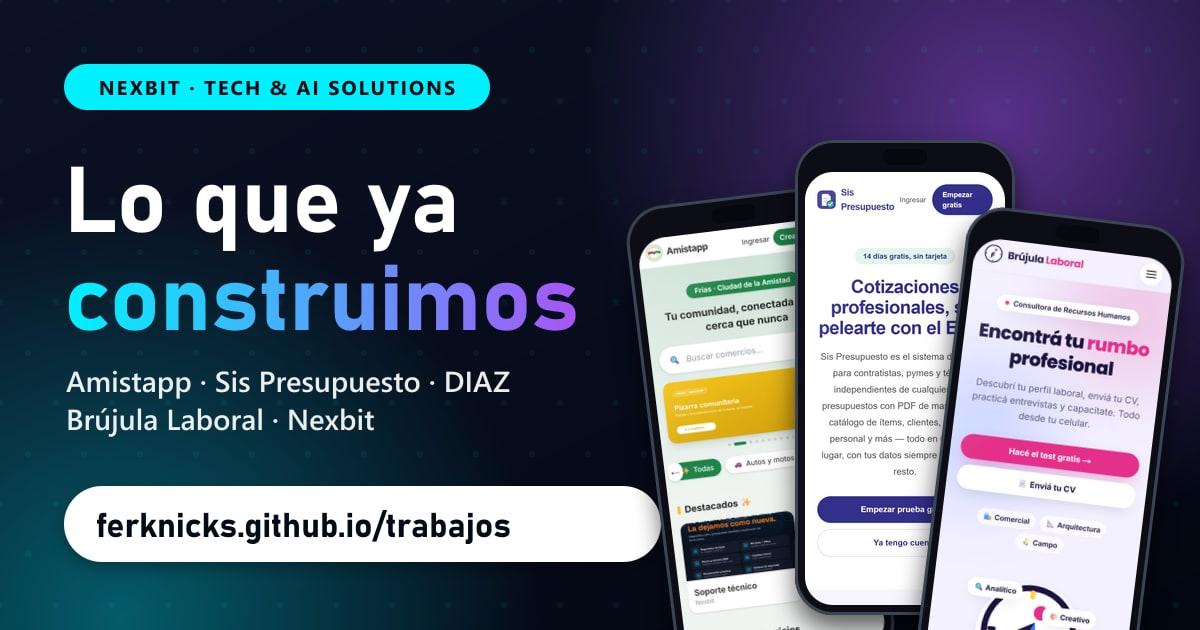
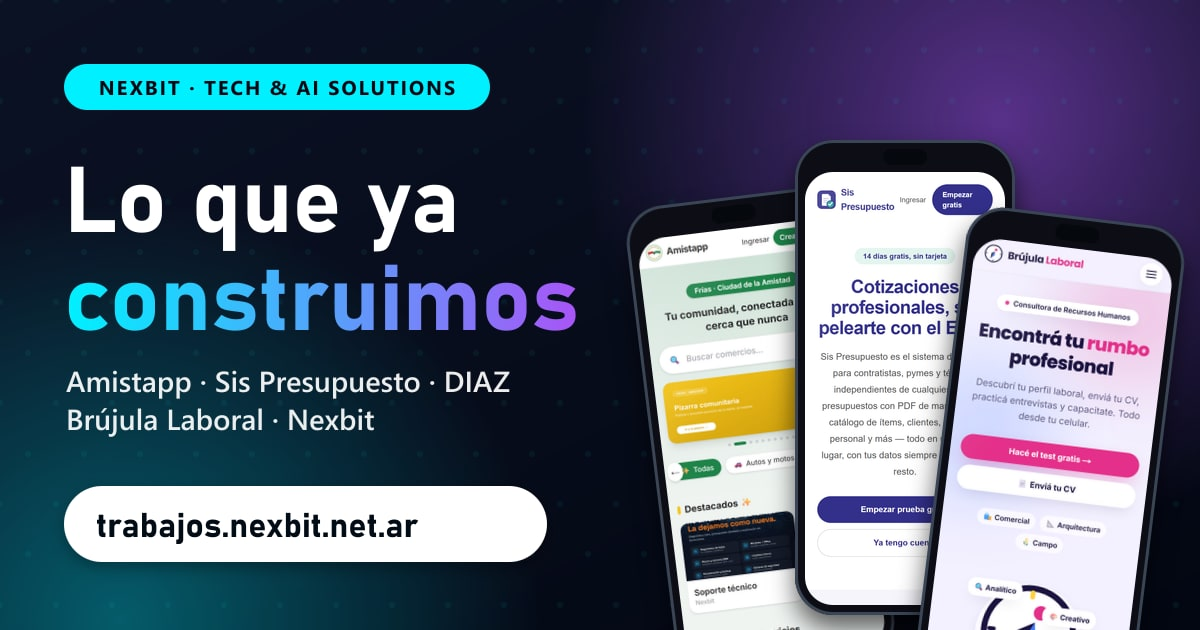
Conecta el dominio trabajos.nexbit.net.ar y actualiza la imagen para compartir

Changed region(s): [[0.0925, 0.754, 0.555, 0.9048]]

diff --git a/index.html b/index.html
@@ -6,22 +6,22 @@
 <title>Nexbit · Trabajos realizados — Amistapp, Sis Presupuesto, DIAZ, Brújula Laboral</title>
 <meta name="description" content="Webs, apps y sistemas a medida con IA y datos: mirá los 5 proyectos que Nexbit ya construyó y entrá a cada sitio.">
 <meta name="theme-color" content="#030712">
-<link rel="canonical" href="https://ferknicks.github.io/trabajos/">
+<link rel="canonical" href="https://trabajos.nexbit.net.ar/">
 <link rel="icon" type="image/svg+xml" href="favicon.svg">
 <meta property="og:type" content="website">
 <meta property="og:locale" content="es_AR">
 <meta property="og:site_name" content="Nexbit">
 <meta property="og:title" content="Nexbit · Lo que ya construimos">
 <meta property="og:description" content="Webs, apps y sistemas a medida con IA y datos: mirá los 5 proyectos que Nexbit ya construyó y entrá a cada sitio.">
-<meta property="og:url" content="https://ferknicks.github.io/trabajos/">
-<meta property="og:image" content="https://ferknicks.github.io/trabajos/og.jpg">
+<meta property="og:url" content="https://trabajos.nexbit.net.ar/">
+<meta property="og:image" content="https://trabajos.nexbit.net.ar/og.jpg">
 <meta property="og:image:width" content="1200">
 <meta property="og:image:height" content="630">
 <meta property="og:image:alt" content="Nexbit: lo que ya construimos — Amistapp, Sis Presupuesto, DIAZ, Brújula Laboral">
 <meta name="twitter:card" content="summary_large_image">
 <meta name="twitter:title" content="Nexbit · Lo que ya construimos">
 <meta name="twitter:description" content="Webs, apps y sistemas a medida con IA y datos: mirá los 5 proyectos que Nexbit ya construyó y entrá a cada sitio.">
-<meta name="twitter:image" content="https://ferknicks.github.io/trabajos/og.jpg">
+<meta name="twitter:image" content="https://trabajos.nexbit.net.ar/og.jpg">
 <script>document.documentElement.classList.add('js')</script>
 <link rel="preload" href="assets/fonts/space-grotesk-700.woff2" as="font" type="font/woff2" crossorigin>
 <link rel="stylesheet" href="assets/css/fonts.css">

diff --git a/README.md b/README.md
@@ -2,8 +2,8 @@
 
 Galería web de los proyectos de **Nexbit** (Tech & AI Solutions): Amistapp, Sis Presupuesto, DIAZ Servicios Generales, Brújula Laboral y el sitio de Nexbit.
 
-- **Ver la galería:** https://ferknicks.github.io/trabajos/
+- **Ver la galería:** https://trabajos.nexbit.net.ar/
 - **Contacto:** WhatsApp 385 444-5071 · https://nexbit.net.ar
 
-Sitio estático (HTML, CSS y JS sin dependencias), publicado con GitHub Pages desde la rama `main`.
+Sitio estático (HTML, CSS y JS sin dependencias), publicado con GitHub Pages desde la rama `main`, con dominio propio (`trabajos.nexbit.net.ar`, registro CNAME en Cloudflare hacia `ferknicks.github.io`).
 El panel privado de Brújula Laboral que se muestra es una **ilustración con datos de ejemplo**.
